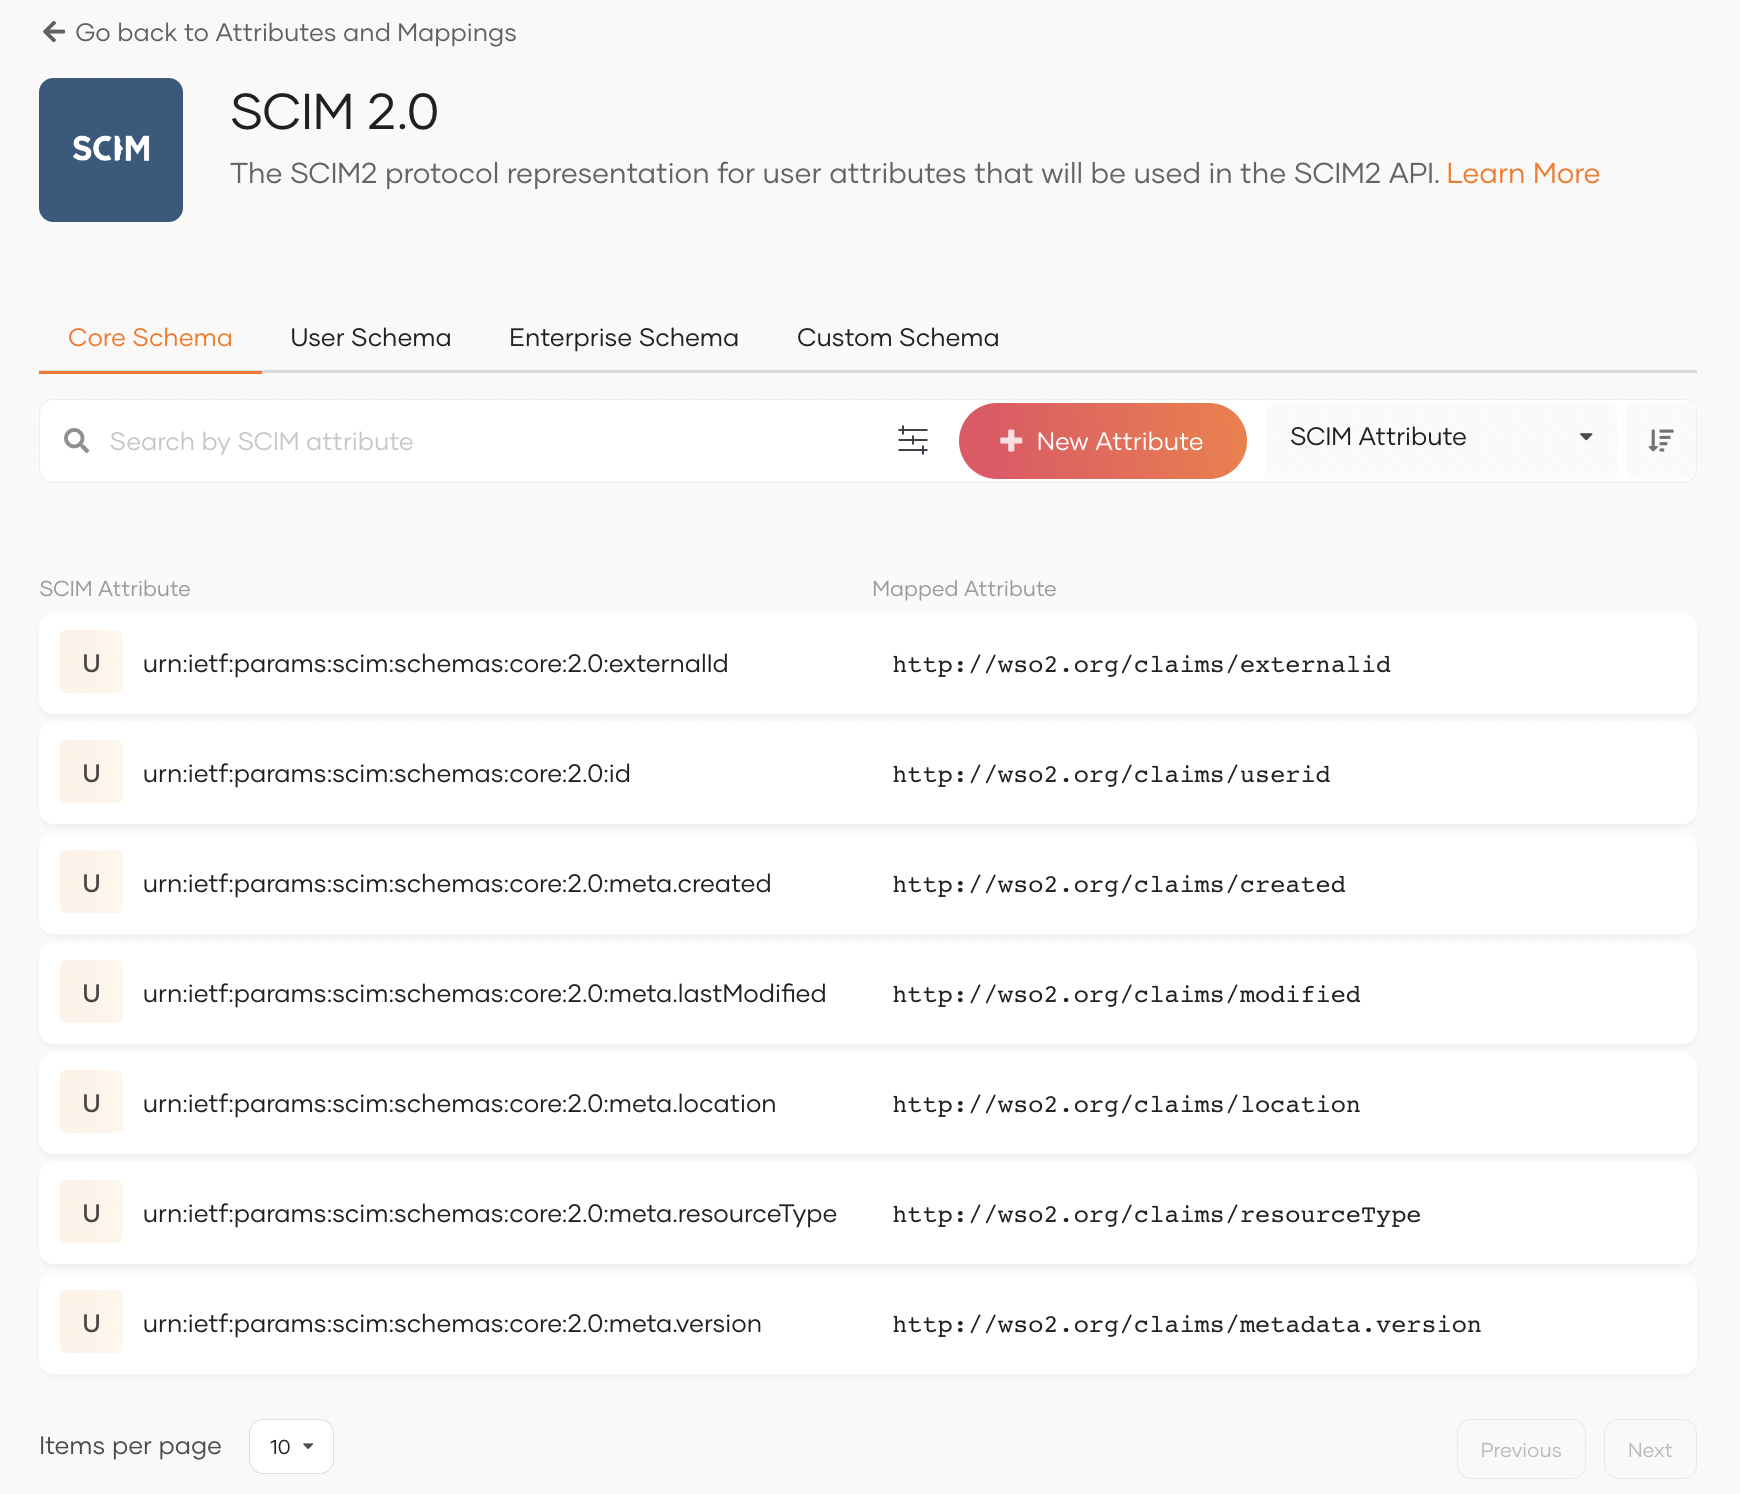
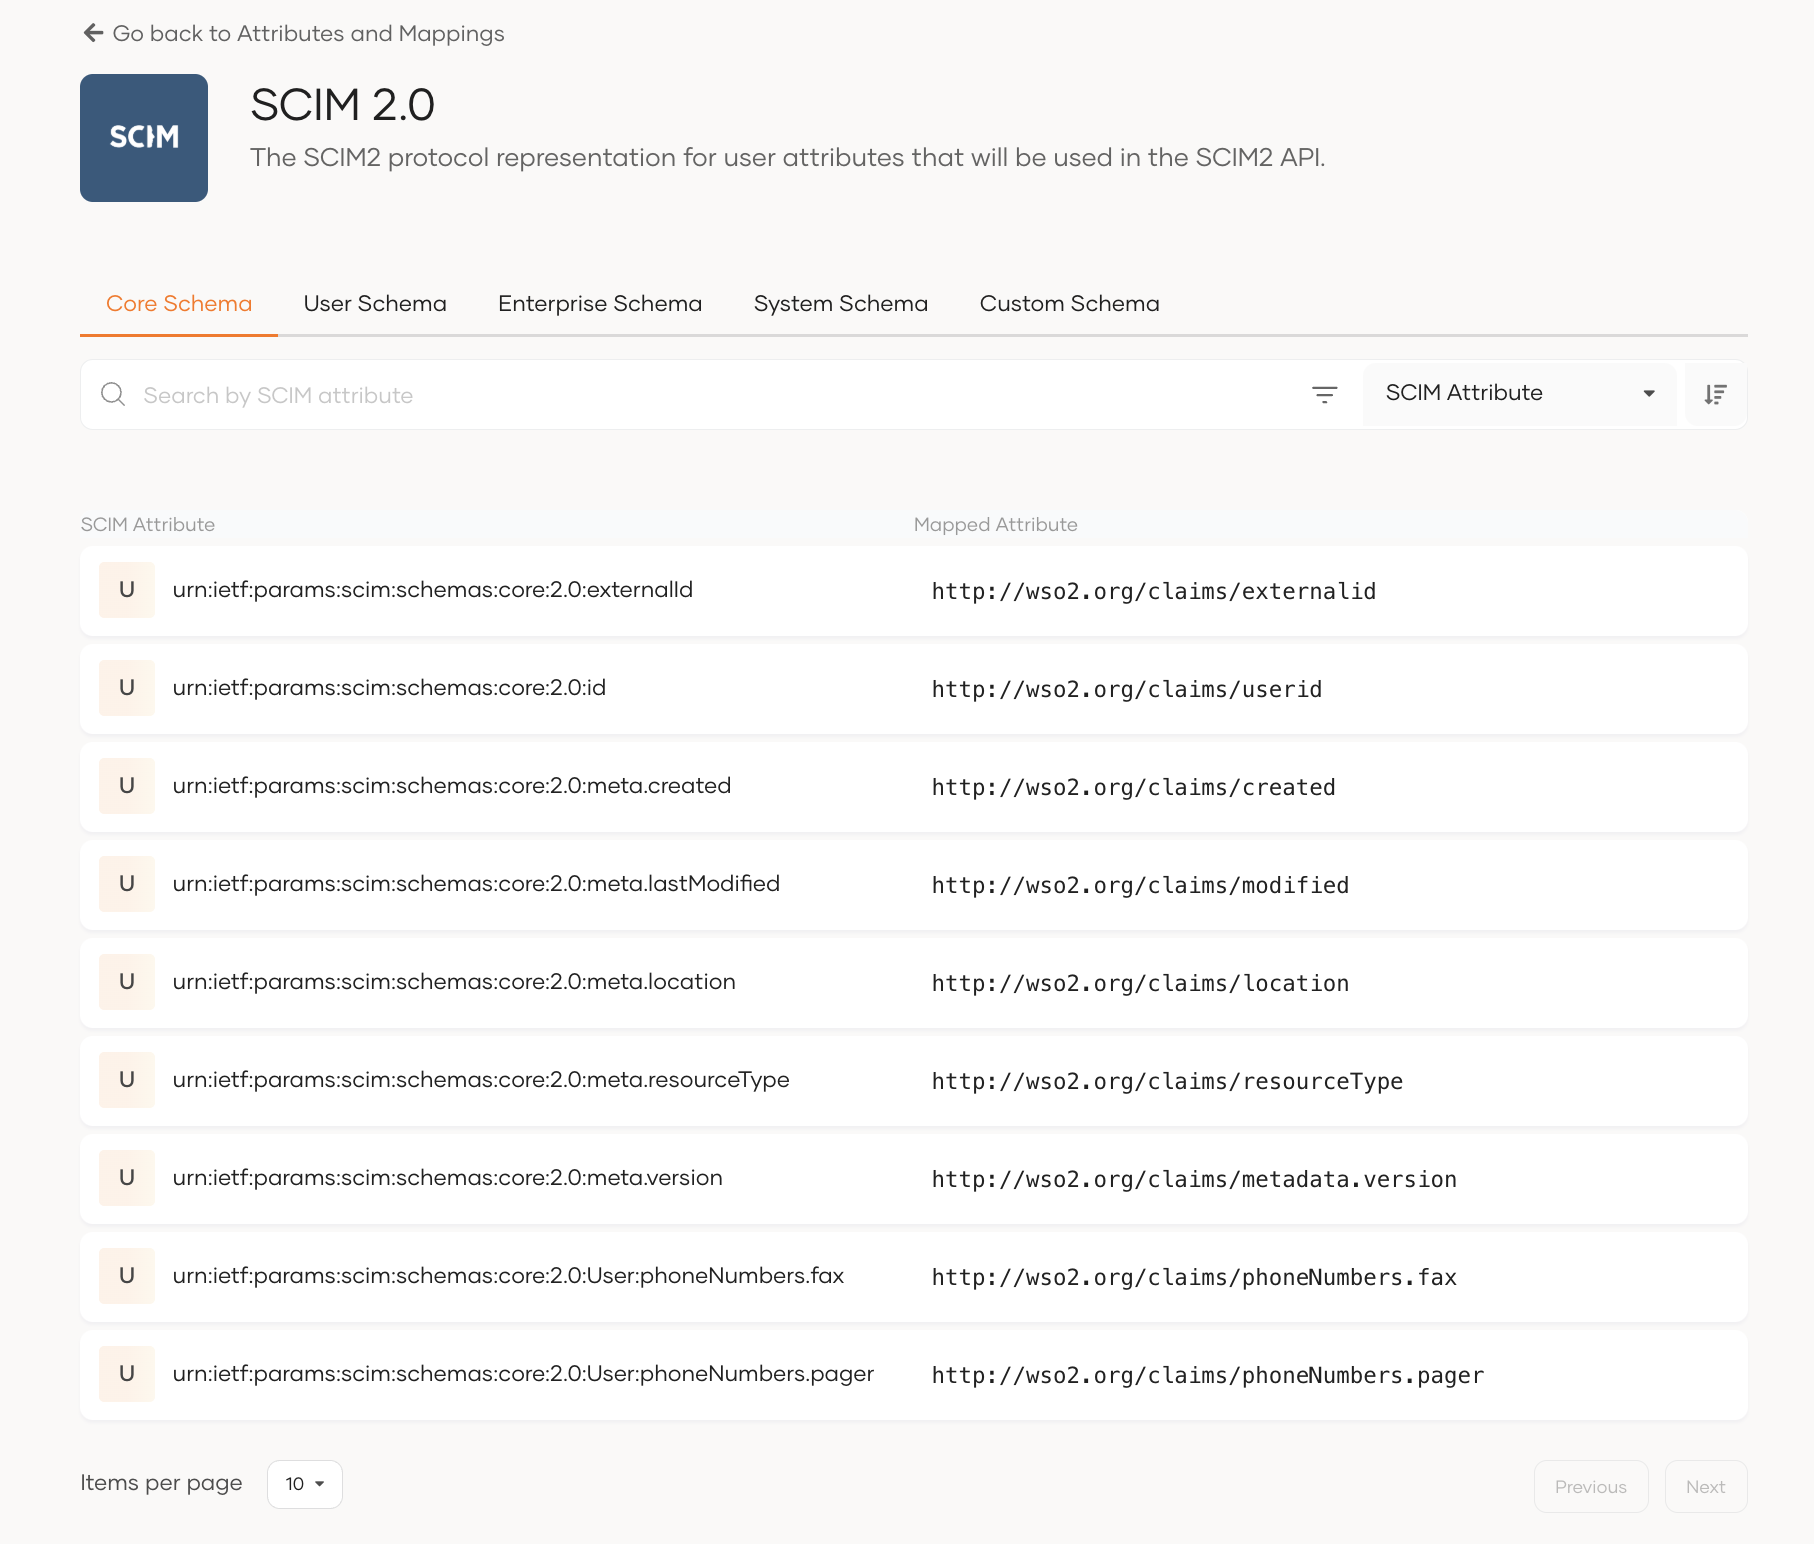
add system schema docs

diff --git a/en/includes/guides/users/attributes/manage-scim2-attribute-mappings.md b/en/includes/guides/users/attributes/manage-scim2-attribute-mappings.md
@@ -5,9 +5,44 @@ Attributes in your organization are mapped to the following SCIM 2.0 schemas map
 - [Core schema attributes](https://datatracker.ietf.org/doc/html/rfc7643#section-3.1){:target="_blank"}
 - [User schema attributes](https://datatracker.ietf.org/doc/html/rfc7643#section-4.1){:target="_blank"}
 - [Enterprise schema attributes](https://datatracker.ietf.org/doc/html/rfc7643#section-4.3){:target="_blank"}
+{% if (product_name == "WSO2 Identity Server" and is_version != "7.0.0") or product_name == "Asgardeo" %}
+- System schema attributes
+{% endif %}
 - Custom schema attributes
 
+#### Core Schema
+
+The core schema defines a set of common attributes that are included in every SCIM resource, such as unique identifiers and resource metadata. Core schema attributes are considered an integral part of every base resource schema. Unlike other schemas, the core schema does not have its own URI and is inherently included in every resource definition.
+
+#### User Schema
+
+The user schema defines attributes specific to User resources, in addition to the core schema attributes. This schema is identified by the URI `urn:ietf:params:scim:schemas:core:2.0:User`. Attributes in the user schema include details such as the user's name, email addresses, phone numbers, roles, and other identity-related properties.
+
+#### Enterprise User Schema
+
+The enterprise schema extends the user schema to include attributes commonly used for representing users in business or enterprise environments. This schema is identified by the URI `urn:ietf:params:scim:schemas:extension:enterprise:2.0:User`. Attributes in the enterprise schema include details such as the user’s department, manager, cost center, and other organization-specific properties.
+
+{% if (product_name == "WSO2 Identity Server" and is_version != "7.0.0") or product_name == "Asgardeo" %}
+
+#### System Schema
+
+The system schema is a user extension provided by the {{product_name}} to support attributes related to the product features and functionalities. It includes user attributes that are essential for Identity Server-specific operations, as well as general user attributes not covered in the standard SCIM specification.
+
+{% endif %}
+
+#### Custom Schema
+
+Custom schema attributes are user-defined attributes that can be added to tailor SCIM schemas to the unique needs of your organization. These attributes provide flexibility to extend the standard schemas with additional fields that are specific to your business requirements.
+
+{% if (product_name == "WSO2 Identity Server" and is_version != "7.0.0") or product_name == "Asgardeo" %}
+
+The attributes in the core, user, and enterprise schemas are well-defined in the [SCIM 2.0 specification](https://datatracker.ietf.org/doc/html/rfc7643){:target="_blank"}. The system schema is maintained by the {{product_name}}. You can't modify the attributes in these schemas. However, custom schema attributes can be freely added or deleted by users.
+
+{% else %}
+
 The attributes in the core, user, and enterprise schemas are well-defined in the [SCIM 2.0 specification](https://datatracker.ietf.org/doc/html/rfc7643){:target="_blank"} and you can't modify the attributes in these schemas. Custom schema attributes can be added or deleted by users.
+
+{% endif %}
 
 {{custom_schema_note}}
 

diff --git a/en/identity-server/next/docs/guides/users/attributes/manage-scim2-attribute-mappings.md b/en/identity-server/next/docs/guides/users/attributes/manage-scim2-attribute-mappings.md
@@ -1,7 +1,7 @@
 {% set attribute_path = "**User Attributes & Stores**" %}
 
 {% set custom_schema_note = "!!! note
-    Custom user attributes in WSO2 Identity Server are created under the `urn:scim:wso2:schema` schema. You can configure this schema in the following ways by updating the `<IS_HOME>/repository/conf/identity/charon-config.xml` file.
+    Custom user attributes in WSO2 Identity Server are created under the `urn:scim:schemas:extension:custom:User` schema. You can configure this schema in the following ways by updating the `<IS_HOME>/repository/conf/identity/charon-config.xml` file.
     
       - To disable this schema, set the following property to `false`.
 
